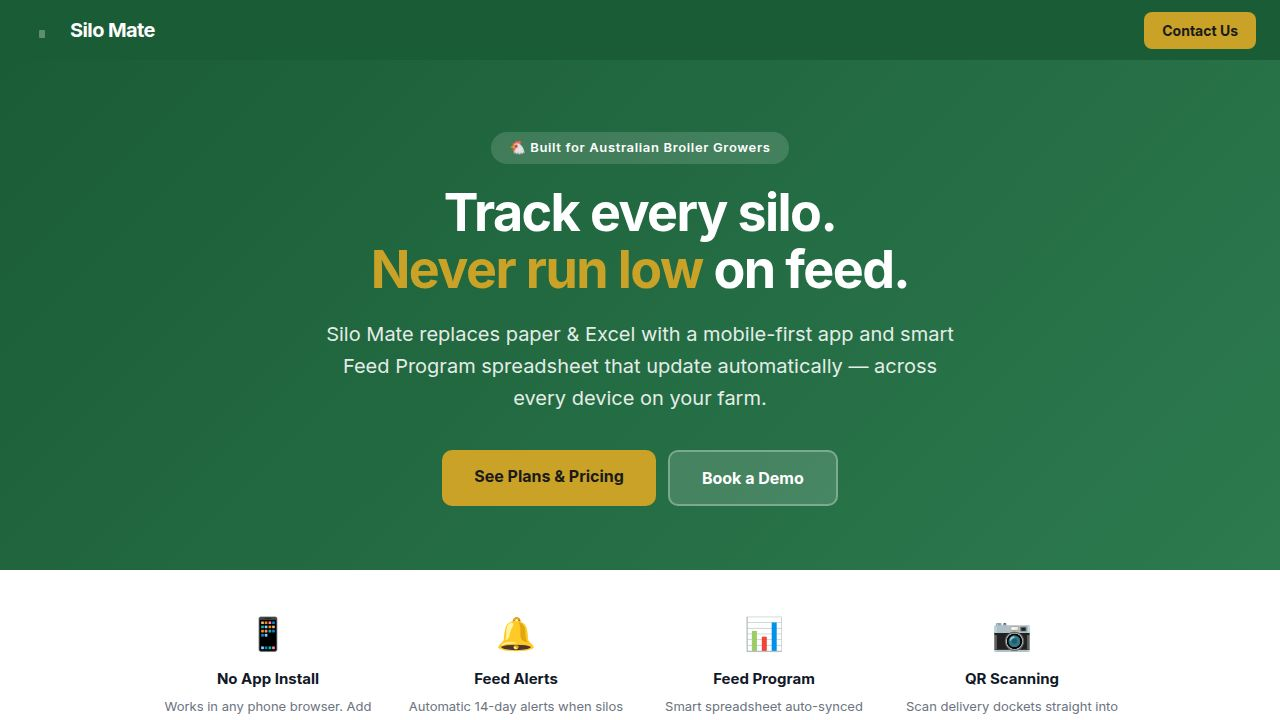
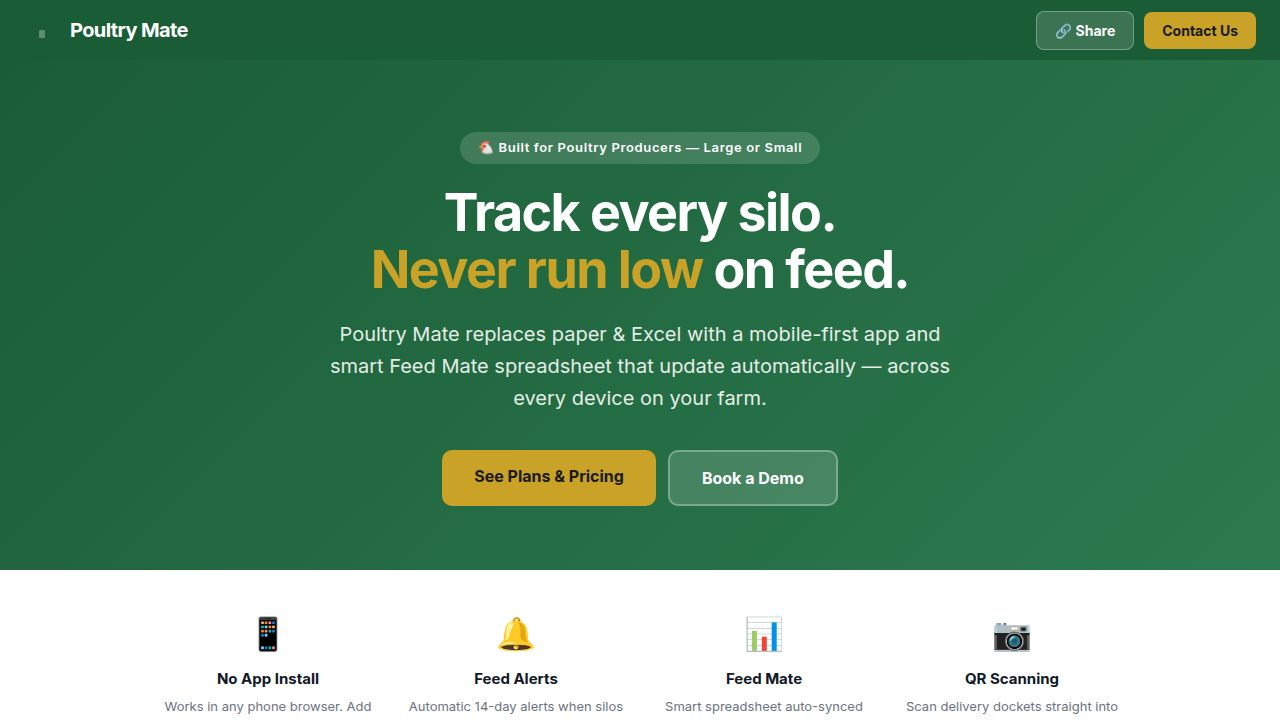
Expand charity options to include Red Cross and UNICEF
Update the 'Giving Back' section to display three charity cards (Rural Aid, Australian Red Cross, UNICEF) in a grid layout, allowing users to choose their preferred cause.

Replit-Commit-Author: Agent
Replit-Commit-Session-Id: bf8f1c43-00ef-439e-9e9f-127cf3404bfa
Replit-Commit-Checkpoint-Type: full_checkpoint
Replit-Commit-Event-Id: 91d53fc4-3e8b-4a97-9431-115debe61c47
Replit-Commit-Screenshot-Url: https://storage.googleapis.com/screenshot-production-us-central1/9fb187d0-5a71-40d4-a291-96ab5e107c04/bf8f1c43-00ef-439e-9e9f-127cf3404bfa/GroE6ll
Replit-Helium-Checkpoint-Created: true

diff --git a/artifacts/silo-mate-plans/src/App.tsx b/artifacts/silo-mate-plans/src/App.tsx
@@ -836,8 +836,8 @@ export default function App() {
         borderTop: "1px solid #e5e7eb",
         padding: "72px 24px",
       }}>
-        <div style={{ maxWidth: 860, margin: "0 auto" }}>
-          <div style={{ textAlign: "center", marginBottom: 48 }}>
+        <div style={{ maxWidth: 1060, margin: "0 auto" }}>
+          <div style={{ textAlign: "center", marginBottom: 52 }}>
             <div style={{ fontSize: 44, marginBottom: 12 }}>❤️</div>
             <h2 style={{
               fontSize: "clamp(24px, 4vw, 36px)",
@@ -846,75 +846,153 @@ export default function App() {
               marginBottom: 14,
               letterSpacing: "-0.03em",
             }}>
-              Giving back to the farming community
+              Giving back — your way
             </h2>
-            <p style={{ color: "#6b7280", fontSize: 16, lineHeight: 1.65, maxWidth: 580, margin: "0 auto" }}>
-              For every active Poultry Mate subscription, <strong style={{ color: GREEN }}>$1 per month</strong> goes directly to{" "}
-              <strong>Rural Aid Australia</strong> — an organisation that supports Aussie farmers
-              battling drought, floods, and financial hardship.
+            <p style={{ color: "#6b7280", fontSize: 16, lineHeight: 1.65, maxWidth: 600, margin: "0 auto" }}>
+              For every active Poultry Mate subscription, <strong style={{ color: GREEN }}>$1 per month</strong> goes to charity.
+              Choose which cause matters most to you — local farmers, global emergencies, or children in need.
             </p>
           </div>
 
+          {/* Three charity cards */}
+          <div style={{
+            display: "grid",
+            gridTemplateColumns: "repeat(auto-fit, minmax(280px, 1fr))",
+            gap: 20,
+            marginBottom: 40,
+          }}>
+            {[
+              {
+                emoji: "🌾",
+                name: "Rural Aid Australia",
+                site: "ruralaid.org.au",
+                tag: "🇦🇺 Local — Supporting Aussie Farmers",
+                tagBg: "#f0fdf4",
+                tagColor: GREEN,
+                tagBorder: "#bbf7d0",
+                desc: "Practical and emotional support for Australian farmers battling drought, floods, and financial hardship. Fodder relief, financial counselling, and mental health support.",
+                btnLabel: "💚 Donate to Rural Aid",
+                btnColor: GREEN,
+                url: "https://www.ruralaid.org.au/donate/",
+              },
+              {
+                emoji: "🔴",
+                name: "Australian Red Cross",
+                site: "redcross.org.au",
+                tag: "🌏 International — Humanitarian Aid",
+                tagBg: "#fff5f5",
+                tagColor: "#c0392b",
+                tagBorder: "#fca5a5",
+                desc: "Responding to disasters and emergencies across Australia and around the world — delivering food, water, shelter, and medical aid to people when they need it most.",
+                btnLabel: "❤️ Donate to Red Cross",
+                btnColor: "#c0392b",
+                url: "https://www.redcross.org.au/donate/",
+              },
+              {
+                emoji: "🌍",
+                name: "UNICEF Australia",
+                site: "unicef.org.au",
+                tag: "👶 Global — Children in Need",
+                tagBg: "#eff6ff",
+                tagColor: "#1d4ed8",
+                tagBorder: "#93c5fd",
+                desc: "Working in over 190 countries to save children's lives — providing vaccines, clean water, education, and protection for the world's most vulnerable kids.",
+                btnLabel: "💙 Donate to UNICEF",
+                btnColor: "#1d4ed8",
+                url: "https://www.unicef.org.au/donate",
+              },
+            ].map(({ emoji, name, site, tag, tagBg, tagColor, tagBorder, desc, btnLabel, btnColor, url }) => (
+              <div key={name} style={{
+                border: "2px solid #e5e7eb",
+                borderRadius: 16,
+                padding: "24px",
+                display: "flex",
+                flexDirection: "column",
+                gap: 14,
+              }}>
+                <div style={{ display: "flex", alignItems: "center", gap: 12 }}>
+                  <span style={{ fontSize: 34 }}>{emoji}</span>
+                  <div>
+                    <div style={{ fontWeight: 800, fontSize: 16, color: "#111827" }}>{name}</div>
+                    <div style={{ fontSize: 12, color: "#9ca3af" }}>{site}</div>
+                  </div>
+                </div>
+                <div style={{ background: tagBg, border: `1px solid ${tagBorder}`, borderRadius: 8, padding: "7px 12px", fontSize: 12, color: tagColor, fontWeight: 700 }}>
+                  {tag}
+                </div>
+                <p style={{ fontSize: 13, color: "#374151", lineHeight: 1.7, margin: 0, flex: 1 }}>{desc}</p>
+                <a
+                  href={url}
+                  target="_blank"
+                  rel="noopener noreferrer"
+                  style={{
+                    display: "block",
+                    textAlign: "center",
+                    background: btnColor,
+                    color: "#fff",
+                    fontWeight: 700,
+                    fontSize: 14,
+                    padding: "12px 0",
+                    borderRadius: 10,
+                    textDecoration: "none",
+                    marginTop: "auto",
+                  }}
+                >
+                  {btnLabel}
+                </a>
+              </div>
+            ))}
+          </div>
+
+          {/* How it works + receipt */}
           <div style={{
             display: "flex",
-            gap: 24,
+            gap: 20,
             flexWrap: "wrap",
             justifyContent: "center",
-            alignItems: "stretch",
           }}>
-            {/* Charity card */}
             <div style={{
-              flex: "1 1 320px",
-              maxWidth: 420,
-              border: "2px solid #e5e7eb",
+              flex: "1 1 340px",
+              maxWidth: 520,
+              background: `linear-gradient(135deg, ${GREEN}08 0%, ${GOLD}08 100%)`,
+              border: `2px solid ${GREEN}22`,
               borderRadius: 16,
-              padding: "28px 28px",
+              padding: "24px 28px",
               display: "flex",
               flexDirection: "column",
               gap: 16,
             }}>
-              <div style={{ display: "flex", alignItems: "center", gap: 12 }}>
-                <span style={{ fontSize: 36 }}>🌾</span>
-                <div>
-                  <div style={{ fontWeight: 800, fontSize: 18, color: "#111827" }}>Rural Aid Australia</div>
-                  <div style={{ fontSize: 13, color: "#6b7280" }}>ruralaid.org.au</div>
+              <div style={{ fontWeight: 800, fontSize: 16, color: "#111827" }}>How it works</div>
+              {[
+                { icon: "📱", text: "Subscribe to any Poultry Mate plan" },
+                { icon: "💰", text: "$1 from your monthly fee is set aside for your chosen charity" },
+                { icon: "📅", text: "Every 3 months we total it up and donate the full amount" },
+                { icon: "🎥", text: "We film the cheque handover and post it publicly — full transparency" },
+                { icon: "🔁", text: "The more growers join, the bigger the donation grows" },
+              ].map(({ icon, text }) => (
+                <div key={text} style={{ display: "flex", gap: 12, alignItems: "flex-start" }}>
+                  <span style={{ fontSize: 18, flexShrink: 0 }}>{icon}</span>
+                  <span style={{ fontSize: 13, color: "#374151", lineHeight: 1.6 }}>{text}</span>
                 </div>
-              </div>
-              <p style={{ fontSize: 14, color: "#374151", lineHeight: 1.7 }}>
-                Rural Aid provides practical and emotional support to Australian farmers in need.
-                From drought relief fodder to financial counselling and mental health support —
-                they are there when farming families need it most.
+              ))}
+            </div>
+
+            <div style={{
+              flex: "1 1 260px",
+              maxWidth: 320,
+              border: "2px solid #e5e7eb",
+              borderRadius: 16,
+              padding: "24px 28px",
+              display: "flex",
+              flexDirection: "column",
+              gap: 14,
+              justifyContent: "center",
+            }}>
+              <div style={{ fontSize: 36, textAlign: "center" }}>🧾</div>
+              <div style={{ fontWeight: 800, fontSize: 16, color: "#111827", textAlign: "center" }}>Donation Receipt</div>
+              <p style={{ fontSize: 13, color: "#6b7280", lineHeight: 1.65, textAlign: "center", margin: 0 }}>
+                Generate a printable acknowledgment of your charitable contribution through Poultry Mate.
               </p>
-              <div style={{
-                background: "#f0fdf4",
-                border: "1px solid #bbf7d0",
-                borderRadius: 10,
-                padding: "12px 16px",
-                fontSize: 14,
-                color: GREEN,
-                fontWeight: 600,
-              }}>
-                🤝 Poultry Mate donates every quarter — we hand over a cheque in person and share the moment publicly so you can see exactly where your support goes.
-              </div>
-              <a
-                href="https://www.ruralaid.org.au/donate/"
-                target="_blank"
-                rel="noopener noreferrer"
-                style={{
-                  display: "block",
-                  textAlign: "center",
-                  background: GREEN,
-                  color: "#fff",
-                  fontWeight: 700,
-                  fontSize: 15,
-                  padding: "13px 0",
-                  borderRadius: 10,
-                  textDecoration: "none",
-                  marginTop: 4,
-                }}
-              >
-                💚 Donate Directly to Rural Aid
-              </a>
               <button
                 onClick={() => setShowReceipt(true)}
                 style={{
@@ -927,45 +1005,17 @@ export default function App() {
                   borderRadius: 10,
                   padding: "12px 0",
                   fontWeight: 700,
-                  fontSize: 15,
+                  fontSize: 14,
                   cursor: "pointer",
-                  marginTop: 8,
                 }}
               >
-                🧾 Generate a Donation Receipt
+                🧾 Generate Receipt
               </button>
-            </div>
-
-            {/* How it works card */}
-            <div style={{
-              flex: "1 1 300px",
-              maxWidth: 380,
-              background: `linear-gradient(135deg, ${GREEN}08 0%, ${GOLD}08 100%)`,
-              border: `2px solid ${GREEN}22`,
-              borderRadius: 16,
-              padding: "28px 28px",
-              display: "flex",
-              flexDirection: "column",
-              gap: 20,
-            }}>
-              <div style={{ fontWeight: 800, fontSize: 17, color: "#111827" }}>How it works</div>
-              {[
-                { icon: "📱", text: "You subscribe to any Poultry Mate plan" },
-                { icon: "💰", text: "$1 from your monthly fee is set aside for charity" },
-                { icon: "📅", text: "Every 3 months we total it up and donate the full amount" },
-                { icon: "🎥", text: "We film the cheque handover and post it publicly — full transparency" },
-                { icon: "🔁", text: "The more growers join, the bigger the donation grows" },
-              ].map(({ icon, text }) => (
-                <div key={text} style={{ display: "flex", gap: 12, alignItems: "flex-start" }}>
-                  <span style={{ fontSize: 20, flexShrink: 0 }}>{icon}</span>
-                  <span style={{ fontSize: 14, color: "#374151", lineHeight: 1.6 }}>{text}</span>
-                </div>
-              ))}
             </div>
           </div>
 
           <p style={{ textAlign: "center", color: "#9ca3af", fontSize: 13, marginTop: 32 }}>
-            You can also donate directly to Rural Aid at any time using the button above — no Poultry Mate subscription required.
+            You can donate directly to any of these charities at any time — no Poultry Mate subscription required.
           </p>
         </div>
       </section>